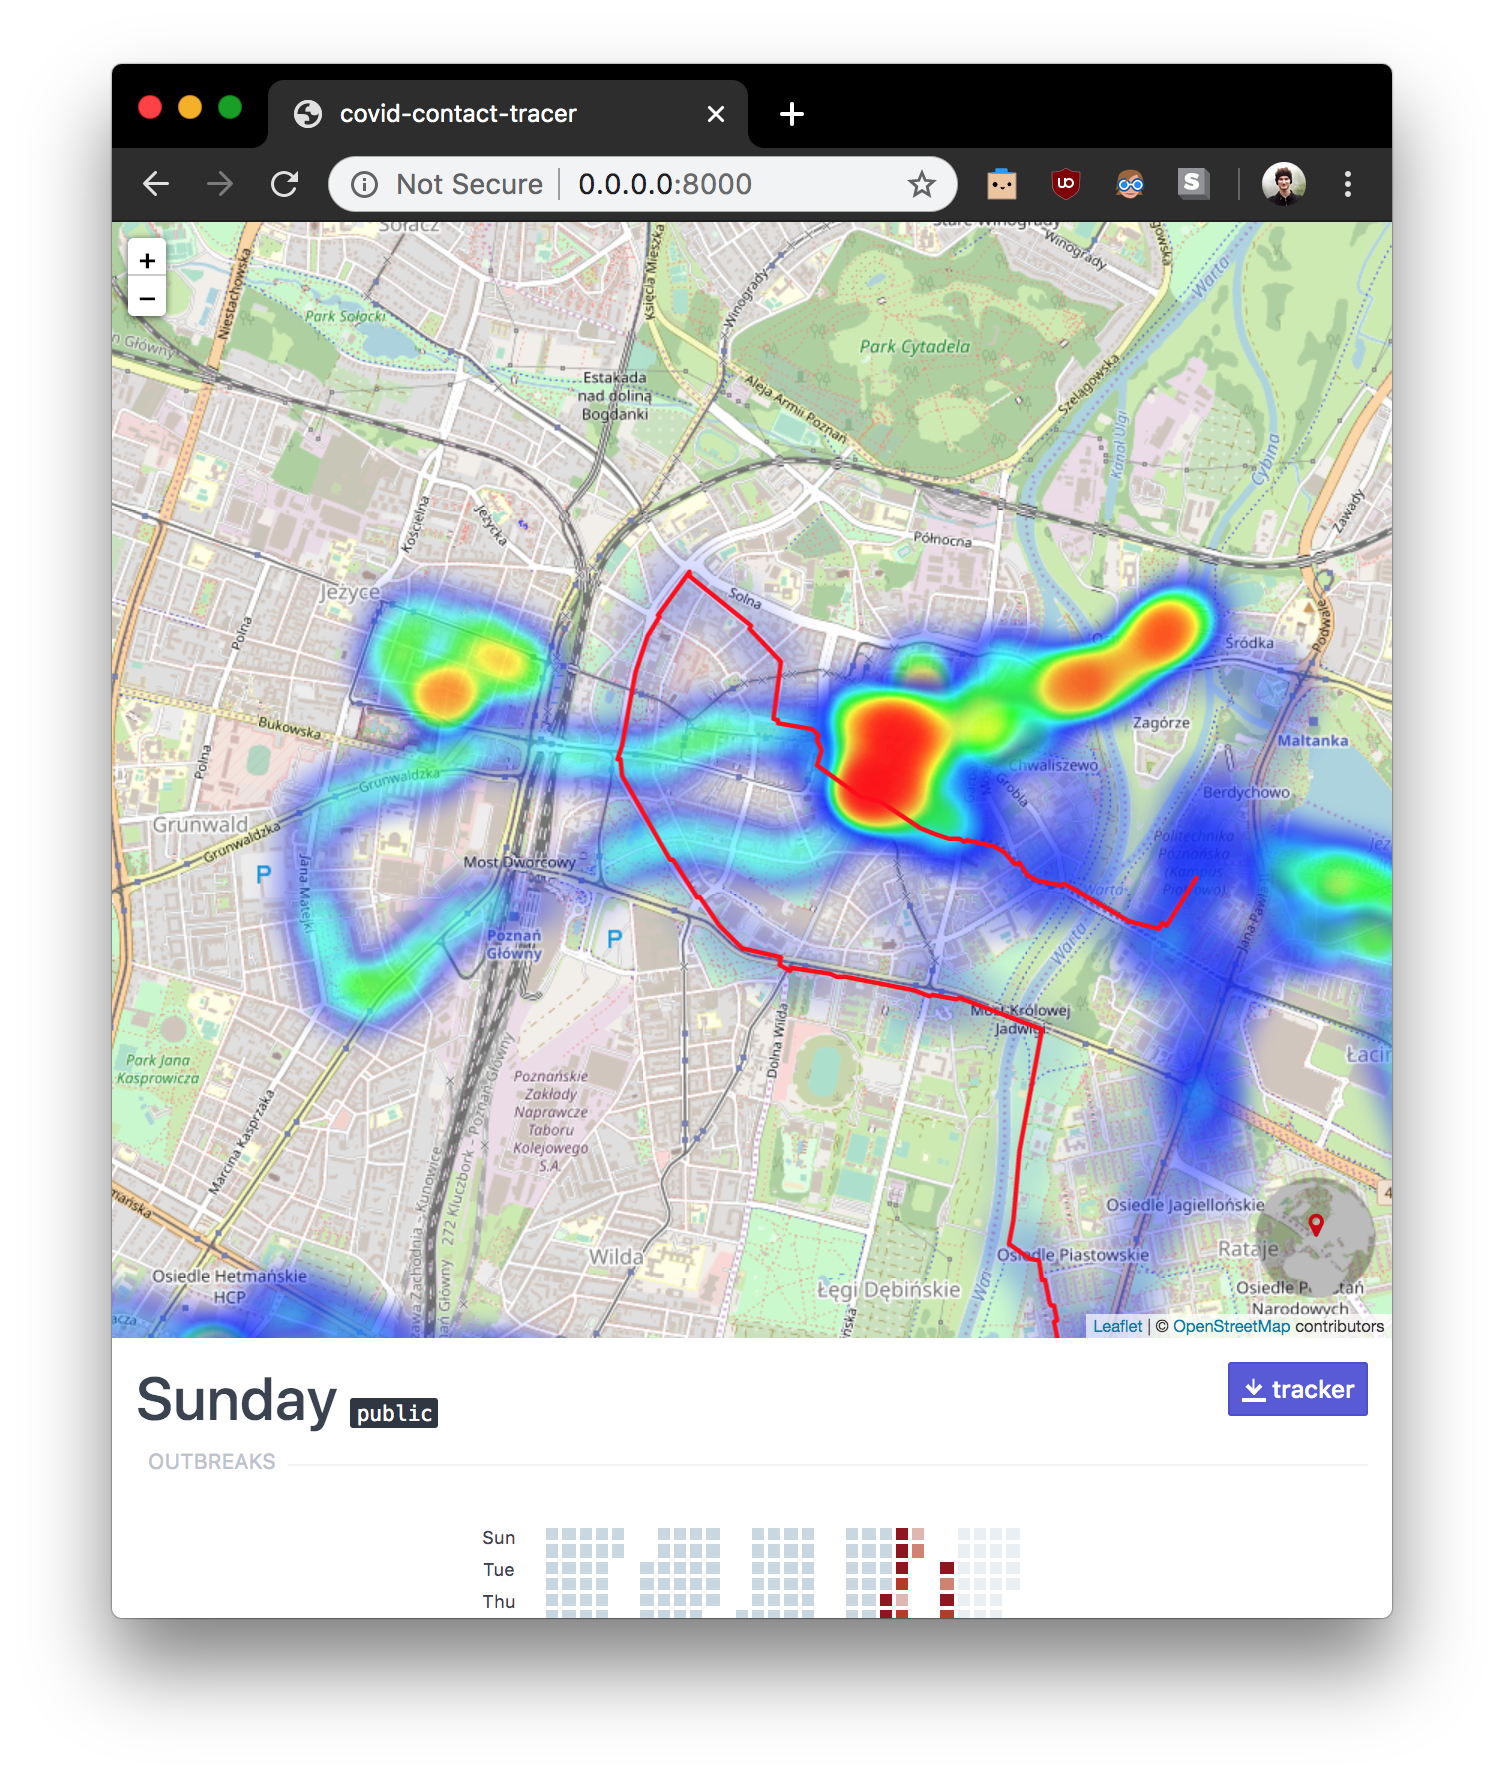
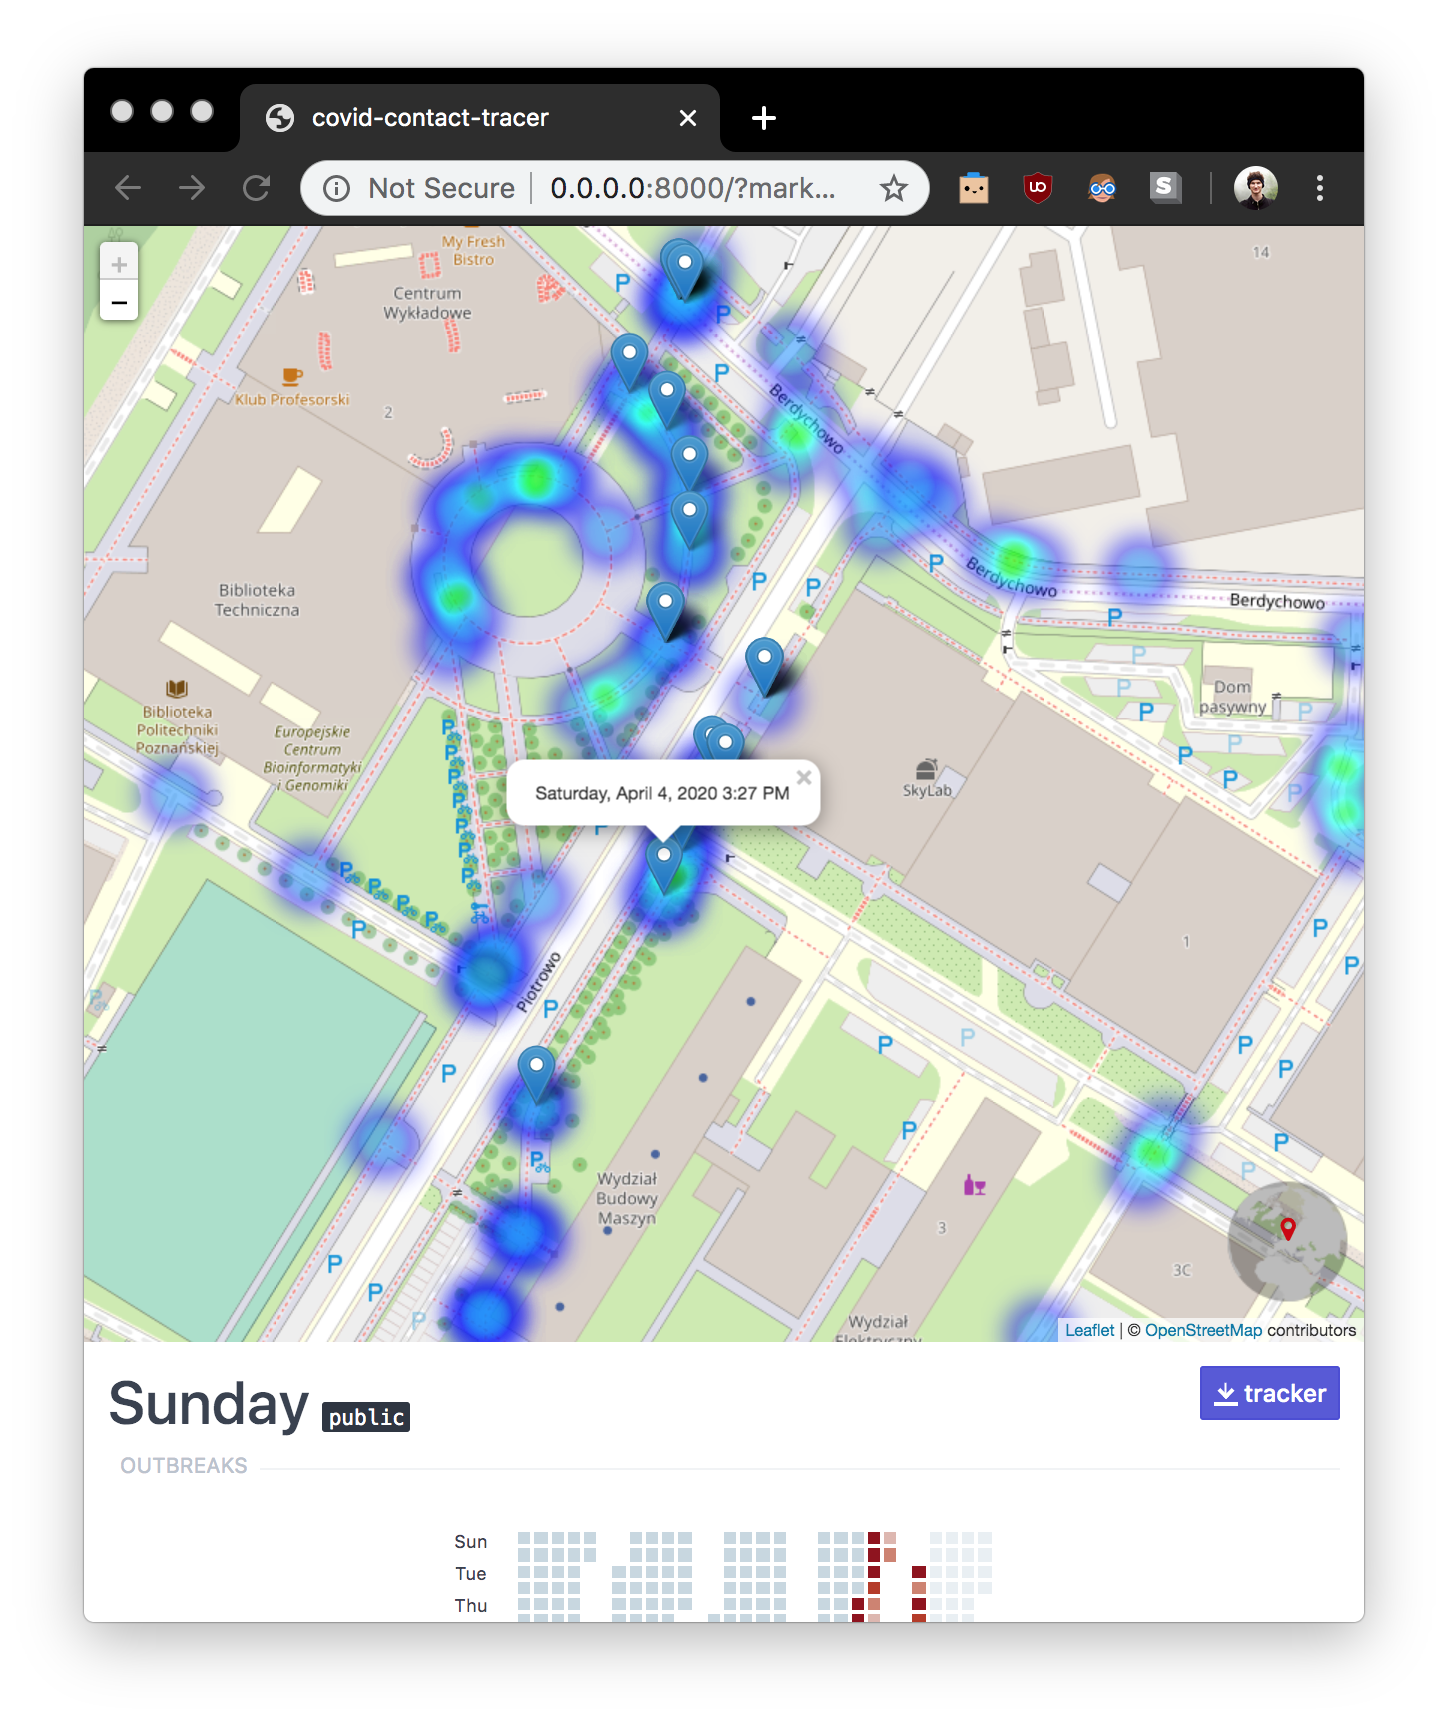
centering

diff --git a/docs/core.js b/docs/core.js
@@ -112,6 +112,12 @@ L.polygon(
     return L.polyline(latlngs, {color : color}).addTo(map);
   }
 
+function centerLeafletMapOnMarker(map, marker) {
+  var latLngs = [ marker.getLatLng() ];
+  var markerBounds = L.latLngBounds(latLngs);
+  map.fitBounds(markerBounds);
+}
+
   function draw_marks(data, color = "red") {
     for (i = 0; i < data.length; i++) {
       // latlngs.push([ data[i][0], data[i][1] ]);
@@ -125,7 +131,10 @@ L.polygon(
 		//              .addTo(map);
       var marker = L.marker([ data[i][0], data[i][1] ]).addTo(map);
 	marker.bindPopup(dateString);
+		//map.setView(marker.getLatLng(),13);
+		//map.fitBounds(marker.getBounds());
 	}
+	centerLeafletMapOnMarker(map, marker);
   }
 
   // mark points from map
